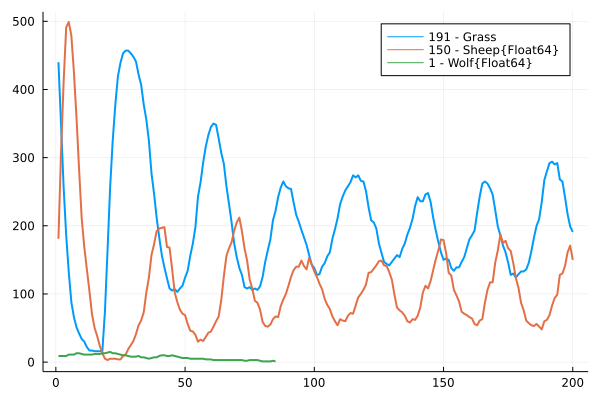
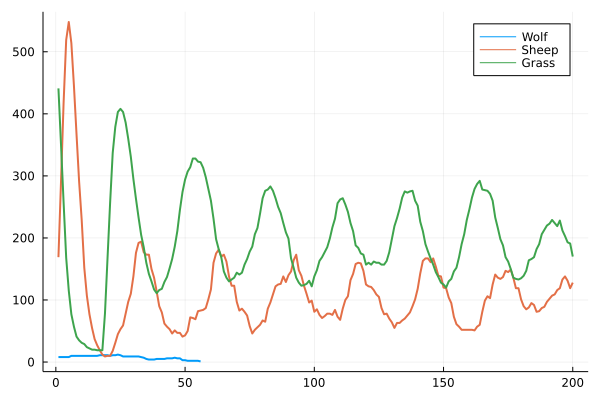
lab 2 updated / homework 2 added

diff --git a/docs/src/lecture_02/lab.md b/docs/src/lecture_02/lab.md
@@ -1,4 +1,4 @@
-# Lab 02: Predator-Prey Agents
+# [Lab 2: Predator-Prey Agents](@id lab02)
 
 ```@setup load_ecosystem
 using Scientific_Programming_in_Julia
@@ -61,7 +61,7 @@ struct World{T<:AbstractAgent}
     agents::Vector{T}
 end
 
-# if you want you can overload the `show` method to get custom printing of you World
+# if you want you can overload the `show` method to get custom printing of your World
 function Base.show(io::IO, w::World)
     println(io, typeof(w))
     map(a->println(io,"  $a"),w.agents)
@@ -136,6 +136,8 @@ Next, implement a `Wolf` with the same properties as the sheep ($E$, $\Delta
 E$, $p_r$, and $p_f$) as well as the correspoding `eat!` method which increases
 the wolf's energy and kills the sheep (i.e. removes the sheep from the world).
 
+Hint: You can use `findall` and `deleteat!` to remove agents from your world.
+
 ```@raw html
 </div></div>
 <details class = "solution-body">
@@ -179,6 +181,8 @@ world
 ```
 Implement a function `find_food(::Sheep, ::World)` which returns either a
 `Grass` (sampled from all `Grass`es with the given food probability $p_f$) or returns `nothing`.
+
+Hint: You can use `StatsBase.sample` to choose a random element from a vector.
 
 ```@raw html
 </div></div>
@@ -256,13 +260,14 @@ Identify the code duplications between `find_food(::Sheep,::World)` and
 ```julia
 function find_food(a::T, w::World) where T<:AbstractAnimal
     if rand() <= a.food_prob
-        as = filter(x->isa(x,eats(T)), w.agents)
+        as = filter(x->eats(a,x), w.agents)
         isempty(as) ? nothing : sample(as)
     end
 end
 
-eats(::Type{<:Sheep}) = Grass
-eats(::Type{<:Wolf}) = Sheep
+eats(::Sheep,::Grass) = true
+eats(::Wolf,::Sheep) = true
+eats(::AbstractAgent,::AbstractAgent) = false
 ```
 ```@raw html
 </p></details>
@@ -280,7 +285,7 @@ are no sheep anymore? Or if the wolf's $p_f<1$?
 Write a simple for loop that runs `7` iterations of a simple simulation that
 lets a wolf eat one sheep in each iteration with this given world:
 ```julia
-sheep = [Sheep(10.0,5.0,1.0,1.0) for _ in 1:10]
+sheep = [Sheep(10.0,5.0,1.0,1.0) for _ in 1:5]
 wolf  = Wolf(20.0,10.0,1.0,0.0)
 world = World(vcat(sheep, [wolf]))
 ```
@@ -298,90 +303,8 @@ eat!(a::AbstractAnimal,b::Nothing,w::World) = nothing
 
 for _ in 1:10
     dinner = find_food(wolf,world)
-    eat(wolf,dinner,world)
+    eat!(wolf,dinner,world)
 end
-```
-
-```@raw html
-</p></details>
-```
-
-
-
-```@raw html
-<div class="admonition is-category-exercise">
-<header class="admonition-header">Exercise</header>
-<div class="admonition-body">
-```
-Implement a function `count(::Vector{AbstractAgent})` that returns a dictionary
-that contains pairs of agent types and the agent count e.g.
-```julia
-julia> count(world)
-Dict(Sheep => 2, Wolf => 1, Grass => 10)
-```
-Use as much dispatch as you can! ;)
-
-```@raw html
-</div></div>
-<details class = "solution-body">
-<summary class = "solution-header">Solution:</summary><p>
-```
-
-```julia
-count(g::AbstractPlant) = g.fully_grown ? 1 : 0
-count(::AbstractAnimal) = 1
-
-count(as::Vector{<:AbstractAgent}) = map(count,as) |> sum
-
-function count(as::Vector{AbstractAgent})
-    Ts = unique(typeof.(as))
-    cs = map(Ts) do T
-        _as = Vector{T}(filter(x->isa(x,T), as))
-        T => count(_as)
-    end
-    Dict(cs...)
-end
-```
-
-```@raw html
-</p></details>
-```
-
-
-```@raw html
-<div class="admonition is-category-exercise">
-<header class="admonition-header">Exercise</header>
-<div class="admonition-body">
-```
-Plot the agent count after each iteration of the previous exercise.
-```@raw html
-</div></div>
-<details class = "solution-body">
-<summary class = "solution-header">Solution:</summary><p>
-```
-
-```@example load_ecosystem
-grass = [Grass(true,5.0,5.0) for _ in 1:2];
-sheep = [Sheep(10.0,5.0,1.0,1.0) for _ in 1:5];
-wolf  = Wolf(20.0,10.0,1.0,1.0);
-world = World(vcat([wolf], sheep, grass));
-
-Ts = unique(typeof.(world.agents))
-counts = Dict(T=>[] for T in Ts);
-for i in 1:7
-    cs = count(world.agents)
-    eat!(wolf, find_food(wolf,world), world)
-    for (T,c) in cs
-        push!(counts[T], c)
-    end
-end
-
-using Plots
-plt = plot();
-for T in Ts
-    plot!(plt, counts[T], label=T, lw=2, ylims=(0,5))
-end
-savefig("plot.svg"); nothing
 ```
 
 ```@raw html

diff --git a/docs/src/lecture_02/hw.md b/docs/src/lecture_02/hw.md
@@ -1,0 +1,139 @@
+# Homework 2: Predator-Prey Agents
+
+```@setup load_ecosystem
+using Scientific_Programming_in_Julia
+using Scientific_Programming_in_Julia.Ecosystem: eat!, find_food, agent_count
+```
+
+In this homework we will continue working on our agent simulation.  All your
+code must be in a single file called `Ecosystem.jl` containing all the type
+definitions and functions we created in [Lab 2](@ref lab02) and the work you
+do in this homework. Zip this file and upload it to BRUTE to receive your
+points for the homework.
+
+To monitor the different populations in our world we need a function that
+counts each type of agent. For `AbstractAnimal`s we simply have to count how
+many of each type are currently in our `World`. In the case of `AbstractPlant`s
+we only want to count the ones that are fully grown.
+
+```@raw html
+<div class="admonition is-category-exercise">
+<header class="admonition-header">Exercise</header>
+<div class="admonition-body">
+```
+1. Implement a function `agent_count` that can be called on a single
+   `AbstractAgent` and returns either `0` or `1` (i.e. always `1` for animals;
+   `1` for a fully grown plant and `0` otherwise).
+
+2. Add a method for a vector of agents `Vector{<:AbstractAgent}`.
+
+3. Add a method for a `World` which returns a dictionary
+   that contains pairs of `Symbol`s and the agent count like below:
+
+```@repl load_ecosystem
+grass1 = Grass(true,5.0,5.0);
+grass2 = Grass(false,5.0,2.0);
+sheep = Sheep(10.0,5.0,1.0,1.0);
+wolf  = Wolf(20.0,10.0,1.0,1.0);
+world = World([grass1, grass2, sheep, wolf]);
+
+agent_count(world)  # the grass that is not fully grown is not counted
+```
+
+Hint: You can get the *name* of a type by using the `nameof` function:
+```@repl load_ecosystem
+nameof(Grass)
+```
+Use as much dispatch as you can! ;)
+
+```@raw html
+</div></div>
+<details class = "solution-body">
+<summary class = "solution-header">Solution:</summary><p>
+```
+
+```julia
+# first solution using foldl instead of a for loop
+agent_count(g::Ecosystem.AbstractPlant) = g.fully_grown ? 1 : 0
+agent_count(::Ecosystem.AbstractAnimal) = 1
+agent_count(as::Vector{<:AbstractAgent}) = sum(agent_count,as)
+
+function agent_count(w::World)
+    function op(d::Dict,a::T) where T<:AbstractAgent
+        n = nameof(T)
+        if n in keys(d)
+            d[n] += agent_count(a)
+        else
+            d[n] = agent_count(a)
+        end
+        return d
+    end
+    foldl(op, w.agents, init=Dict{Symbol,Int}())
+end
+```
+
+```julia
+# second solution with StastBase.countmap
+countsym(g::T) where T<:AbstractPlant = g.fully_grown ? nameof(T) : :NoCount
+countsym(::T) where T<:AbstractAnimal = nameof(T)
+
+function agent_count(w::World)
+    cs = StatsBase.countmap(countsym.(w.agents))
+    delete!(cs,:NoCount)
+end
+```
+
+```@raw html
+</p></details>
+```
+
+
+```@raw html
+<div class="admonition is-category-exercise">
+<header class="admonition-header">Exercise (voluntary)</header>
+<div class="admonition-body">
+```
+Using the world below, run a simple simulation with `7` iterations.  In each
+iteration the wolf has to `find_food` and `eat!`.  Plot trajectories of the
+agent count over time.
+
+(Do not include this code in your submission to BRUTE)
+```julia
+grass = [Grass(true,5.0,5.0) for _ in 1:2];
+sheep = [Sheep(10.0,5.0,1.0,1.0) for _ in 1:5];
+wolf  = Wolf(20.0,10.0,1.0,1.0);
+world = World(vcat([wolf], sheep, grass));
+```
+```@raw html
+</div></div>
+<details class = "solution-body">
+<summary class = "solution-header">Solution:</summary><p>
+```
+
+```@example load_ecosystem
+grass = [Grass(true,5.0,5.0) for _ in 1:2];
+sheep = [Sheep(10.0,5.0,1.0,1.0) for _ in 1:5];
+wolf  = Wolf(20.0,10.0,1.0,1.0);
+world = World(vcat([wolf], sheep, grass));
+
+ns = nameof.(unique(typeof.(world.agents)))
+counts = Dict(n=>[] for n in ns);
+for _ in 1:7
+    cs = agent_count(world)
+    eat!(wolf, find_food(wolf,world), world)
+    for (n,c) in cs
+        push!(counts[n], c)
+    end
+end
+
+using Plots
+plt = plot();
+for n in ns
+    plot!(plt, counts[n], label="$n", lw=2, ylims=(0,5))
+end
+plt
+```
+
+```@raw html
+</p></details>
+```
